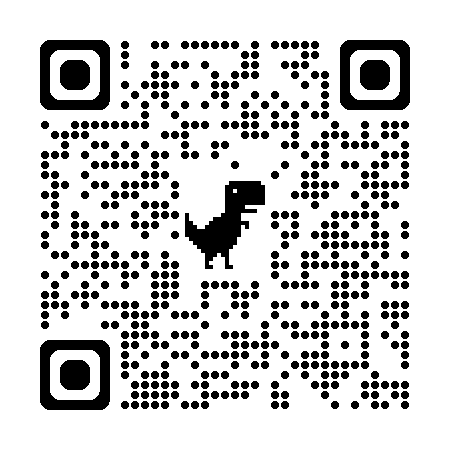
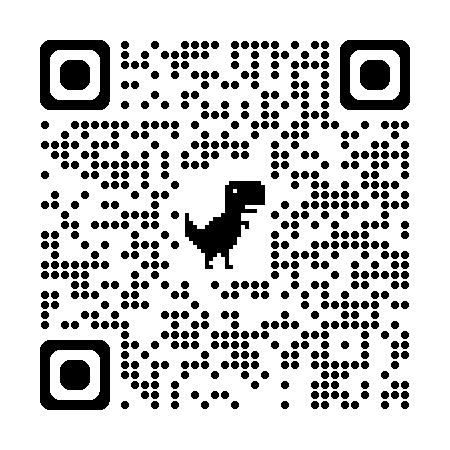
replaced app

diff --git a/slides.md b/slides.md
@@ -268,7 +268,7 @@ function HeavyComponent() {
 ---
 ---
 # Demo Time!
-<iframe v-click src='http://localhost:3000' class='w-full h-110'></iframe>
+<iframe v-click src='http://localhost:5173/' class='w-full h-110'></iframe>
 
 
 
@@ -450,7 +450,7 @@ function ContextWrapper({ children }) {
 ---
 ---
 # Demo Time!
-<iframe v-click src='http://localhost:3000' class='w-full h-110'></iframe>
+<iframe v-click src='http://localhost:5173/' class='w-full h-110'></iframe>
 
 ---
 layout: two-cols-header
@@ -736,7 +736,7 @@ function ContextWrapper({ form, heavyComponent }) {
 ---
 ---
 # Demo Time!
-<iframe v-click src='http://localhost:3000' class='w-full h-110'></iframe>
+<iframe v-click src='http://localhost:5173/' class='w-full h-110'></iframe>
 
 ---
 ---
